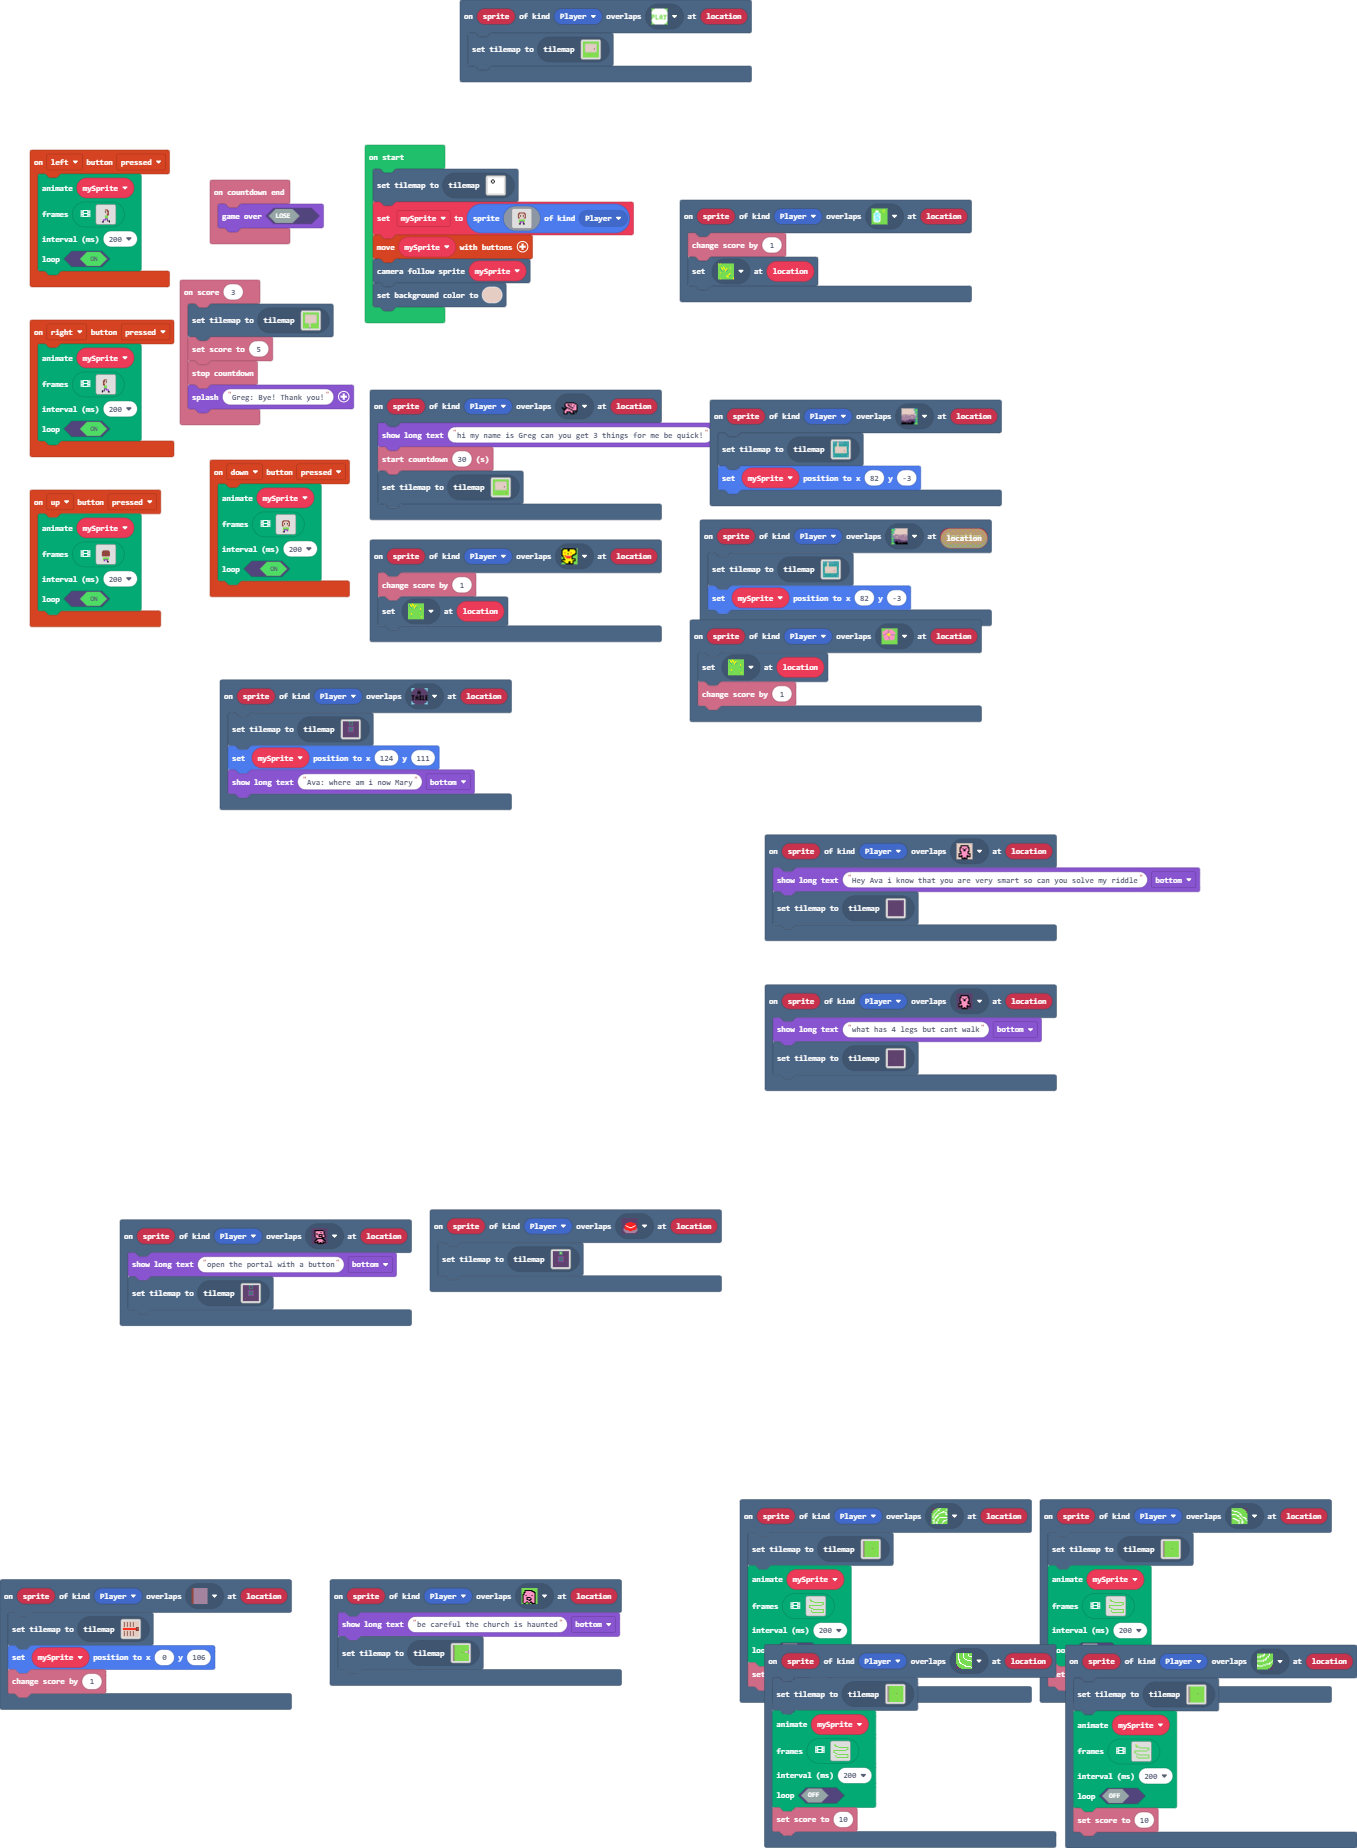
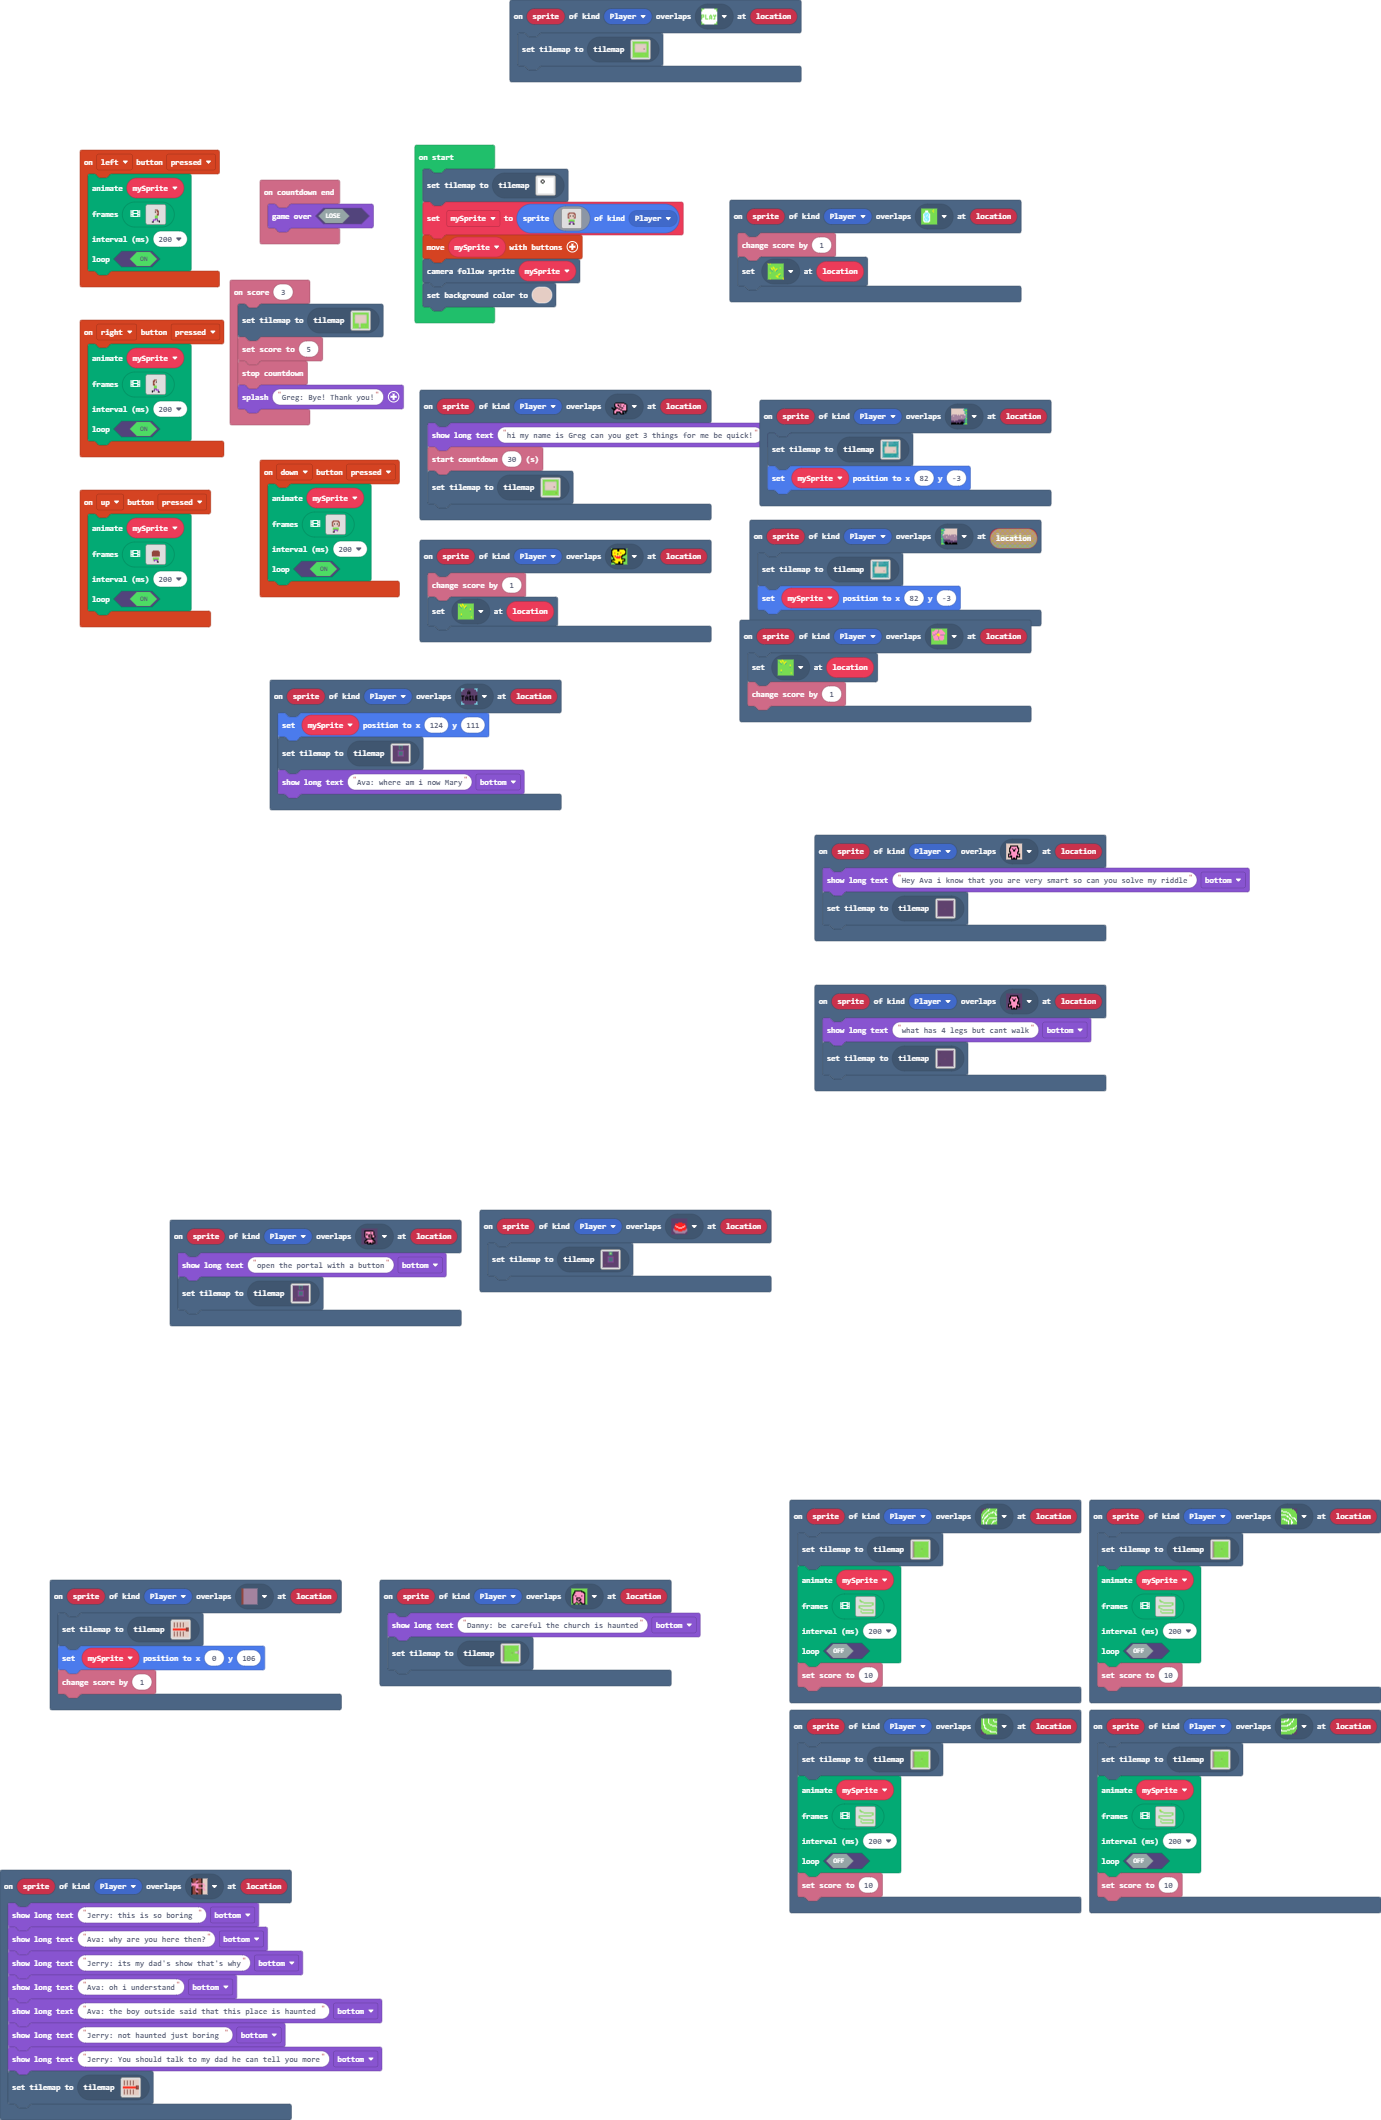
holy

diff --git a/tilemap.g.ts b/tilemap.g.ts
@@ -104,6 +104,8 @@ namespace myTiles {
     export const tile50 = image.ofBuffer(hex``);
     //% fixedInstance jres blockIdentity=images._tile
     export const tile51 = image.ofBuffer(hex``);
+    //% fixedInstance jres blockIdentity=images._tile
+    export const tile52 = image.ofBuffer(hex``);
 
     helpers._registerFactory("tilemap", function(name: string) {
         switch(helpers.stringTrim(name)) {
@@ -601,25 +603,6 @@ namespace myTiles {
 . . . . . . . . . . . . . . . . 
 . . . . . . . . . . . . . . . . 
 `, [myTiles.transparency16], TileScale.Sixteen);
-            case "level35":
[1 lines of base64/hex data omitted]
-. . . . . . . . . . . . . . . . 
-. . . . . . . . . . . . . . . . 
-. . . . . . . . . . . . . . . . 
-. . . . . . . . . . . . . . . . 
-. . . . . . . . . . . . . . . . 
-. . . . . . . . . . . . . . . . 
-. . . . . . . . . . . . . . . . 
-. . . . . . . . . . . . . . . . 
-. . . . . . . . . . . . . . . . 
-. . . . . . . . . . . . . . . . 
-. . . . . . . . . . . . . . . . 
-. . . . . . . . . . . . . . . . 
-. . . . . . . . . . . . . . . . 
-. . . . . . . . . . . . . . . . 
-. . . . . . . . . . . . . . . . 
-. . . . . . . . . . . . . . . . 
-`, [myTiles.transparency16,myTiles.tile37,myTiles.tile38,myTiles.tile39,myTiles.tile40,myTiles.tile41,myTiles.tile42,myTiles.tile43,myTiles.tile44,myTiles.tile45,myTiles.tile46,myTiles.tile47,myTiles.tile48,myTiles.tile49,myTiles.tile50], TileScale.Sixteen);
             case "level7":
             case "level7":return tiles.createTilemap(hex`1000100001010101010101010101010101010101010101010101010101010101010101010101010102020101010101010101010101010102010102010101010101010101010101020101020101010101010101010101010102020101010101010101010101010101010301010101010101010101010101010101010101010101010101010101010101010101010101010101010101010101010101010101010101010101010101010101010101010101010101010101010101010101010101010101010101010101010101010101010101010101010101010101010101010101010101010101010101010101010101010101010101010101010101010101010101010101`, img`
 . . . . . . . . . 2 . . . . . . 
@@ -715,6 +698,101 @@ namespace myTiles {
 . . . . . . . . . . . . . . . . 
 . . . . . . . . . . . . . . . . 
 `, [myTiles.transparency16], TileScale.Sixteen);
+            case "level38":
+            case "level38":return tiles.createTilemap(hex`1000100000000000000000000000000000000000000000000000000000000000000000000000000000000000000000000000000000000000000000000000000000000000000000000000000000000000000000000000000000000000000000000000000000000000000000000000000000000000000000000000000000000000000000000000000000000000000000000000000000000000000000000000000000000000000000000000000000000000000000000000000000000000000000000000000000000000000000000000000000000000000000000000000000000000000000000000000000000000000000000000000000000000000000000000000000000000`, img`
+. . . . . . . . . . . . . . . . 
+. . . . . . . . . . . . . . . . 
+. . . . . . . . . . . . . . . . 
+. . . . . . . . . . . . . . . . 
+. . . . . . . . . . . . . . . . 
+. . . . . . . . . . . . . . . . 
+. . . . . . . . . . . . . . . . 
+. . . . . . . . . . . . . . . . 
+. . . . . . . . . . . . . . . . 
+. . . . . . . . . . . . . . . . 
+. . . . . . . . . . . . . . . . 
+. . . . . . . . . . . . . . . . 
+. . . . . . . . . . . . . . . . 
+. . . . . . . . . . . . . . . . 
+. . . . . . . . . . . . . . . . 
+. . . . . . . . . . . . . . . . 
+`, [myTiles.transparency16], TileScale.Sixteen);
+            case "level39":
+            case "level39":return tiles.createTilemap(hex`1000100000000000000000000000000000000000000000000000000000000000000000000000000000000000000000000000000000000000000000000000000000000000000000000000000000000000000000000000000000000000000000000000000000000000000000000000000000000000000000000000000000000000000000000000000000000000000000000000000000000000000000000000000000000000000000000000000000000000000000000000000000000000000000000000000000000000000000000000000000000000000000000000000000000000000000000000000000000000000000000000000000000000000000000000000000000000`, img`
+. . . . . . . . . . . . . . . . 
+. . . . . . . . . . . . . . . . 
+. . . . . . . . . . . . . . . . 
+. . . . . . . . . . . . . . . . 
+. . . . . . . . . . . . . . . . 
+. . . . . . . . . . . . . . . . 
+. . . . . . . . . . . . . . . . 
+. . . . . . . . . . . . . . . . 
+. . . . . . . . . . . . . . . . 
+. . . . . . . . . . . . . . . . 
+. . . . . . . . . . . . . . . . 
+. . . . . . . . . . . . . . . . 
+. . . . . . . . . . . . . . . . 
+. . . . . . . . . . . . . . . . 
+. . . . . . . . . . . . . . . . 
+. . . . . . . . . . . . . . . . 
+`, [myTiles.transparency16], TileScale.Sixteen);
+            case "level35":
[1 lines of base64/hex data omitted]
+. . . . . . . . . . . . . . . . 
+. . . . . . . . . . . . . . . . 
+. . . . . . . . . . . . . . . . 
+. . . . . . . . . . . . . . . . 
+. . . . . . . . . . . . . . . . 
+. . . . . . . . . . . . . . . . 
+. . . . . . . . . . . . . . . . 
+. . . . . . . . . . . . . . . . 
+. . . . . . . . . . . . . . . . 
+. . . . . . . . . . . . . . . . 
+. . . . . . . . . . . . . . . . 
+. . . . . . . . . . . . . . . . 
+. . . . . . . . . . . . . . . . 
+. . . . . . . . . . . . . . . . 
+. . . . . . . . . . . . . . . . 
+. . . . . . . . . . . . . . . . 
+`, [myTiles.transparency16,myTiles.tile38,myTiles.tile39,myTiles.tile40,myTiles.tile41,myTiles.tile42,myTiles.tile43,myTiles.tile44,myTiles.tile45,myTiles.tile46,myTiles.tile47,myTiles.tile48,myTiles.tile49,myTiles.tile50], TileScale.Sixteen);
+            case "level40":
+            case "level40":return tiles.createTilemap(hex`1000100000000000000000000000000000000000000000000000000000000000000000000000000000000000000000000000000000000000000000000000000000000000000000000000000000000000000000000000000000000000000000000000000000000000000000000000000000000000000000000000000000000000000000000000000000000000000000000000000000000000000000000000000000000000000000000000000000000000000000000000000000000000000000000000000000000000000000000000000000000000000000000000000000000000000000000000000000000000000000000000000000000000000000000000000000000000`, img`
+. . . . . . . . . . . . . . . . 
+. . . . . . . . . . . . . . . . 
+. . . . . . . . . . . . . . . . 
+. . . . . . . . . . . . . . . . 
+. . . . . . . . . . . . . . . . 
+. . . . . . . . . . . . . . . . 
+. . . . . . . . . . . . . . . . 
+. . . . . . . . . . . . . . . . 
+. . . . . . . . . . . . . . . . 
+. . . . . . . . . . . . . . . . 
+. . . . . . . . . . . . . . . . 
+. . . . . . . . . . . . . . . . 
+. . . . . . . . . . . . . . . . 
+. . . . . . . . . . . . . . . . 
+. . . . . . . . . . . . . . . . 
+. . . . . . . . . . . . . . . . 
+`, [myTiles.transparency16], TileScale.Sixteen);
+            case "level42":
[1 lines of base64/hex data omitted]
+. . . . . . . . . . . . . . . . 
+. . . . . . . . . . . . . . . . 
+. . . . . . . . . . . . . . . . 
+. . . . . . . . . . . . . . . . 
+. . . . . . . . . . . . . . . . 
+. . . . . . . . . . . . . . . . 
+. . . . . . . . . . . . . . . . 
+. . . . . . . . . . . . . . . . 
+. . . . . . . . . . . . . . . . 
+. . . . . . . . . . . . . . . . 
+. . . . . . . . . . . . . . . . 
+. . . . . . . . . . . . . . . . 
+. . . . . . . . . . . . . . . . 
+. . . . . . . . . . . . . . . . 
+. . . . . . . . . . . . . . . . 
+. . . . . . . . . . . . . . . . 
+`, [myTiles.transparency16,myTiles.tile38,myTiles.tile39,myTiles.tile40,myTiles.tile41,myTiles.tile42,myTiles.tile43,myTiles.tile44,myTiles.tile45,myTiles.tile46,myTiles.tile48,myTiles.tile49,myTiles.tile50,myTiles.tile52,myTiles.tile37], TileScale.Sixteen);
         }
         return null;
     })
@@ -824,6 +902,8 @@ namespace myTiles {
             case "tile50":return tile50;
             case "myTile49":
             case "tile51":return tile51;
+            case "myTile50":
+            case "tile52":return tile52;
         }
         return null;
     })

diff --git a/main.ts b/main.ts
@@ -49,6 +49,16 @@ scene.onOverlapTile(SpriteKind.Player, assets.tile`myTile6`, function (sprite, l
     info.changeScoreBy(1)
     tiles.setTileAt(location, sprites.castle.tileGrass1)
 })
+scene.onOverlapTile(SpriteKind.Player, assets.tile`myTile45`, function (sprite, location) {
+    game.showLongText("Jerry: this is so boring ", DialogLayout.Bottom)
+    game.showLongText("Ava: why are you here then?", DialogLayout.Bottom)
+    game.showLongText("Jerry: its my dad's show that's why", DialogLayout.Bottom)
+    game.showLongText("Ava: oh i understand", DialogLayout.Bottom)
+    game.showLongText("Ava: the boy outside said that this place is haunted ", DialogLayout.Bottom)
+    game.showLongText("Jerry: not haunted just boring ", DialogLayout.Bottom)
+    game.showLongText("Jerry: You should talk to my dad he can tell you more", DialogLayout.Bottom)
+    tiles.setCurrentTilemap(tilemap`level42`)
+})
 scene.onOverlapTile(SpriteKind.Player, assets.tile`myTile34`, function (sprite, location) {
     tiles.setCurrentTilemap(tilemap`level35`)
     mySprite.setPosition(0, 106)
@@ -153,8 +163,8 @@ scene.onOverlapTile(SpriteKind.Player, assets.tile`myTile24`, function (sprite, 
     info.setScore(10)
 })
 scene.onOverlapTile(SpriteKind.Player, assets.tile`myTile13`, function (sprite, location) {
-    tiles.setCurrentTilemap(tilemap`level20`)
     mySprite.setPosition(124, 111)
+    tiles.setCurrentTilemap(tilemap`level20`)
     game.showLongText("Ava: where am i now Mary", DialogLayout.Bottom)
 })
 scene.onOverlapTile(SpriteKind.Player, assets.tile`myTile7`, function (sprite, location) {
@@ -487,7 +497,7 @@ scene.onOverlapTile(SpriteKind.Player, assets.tile`myTile11`, function (sprite, 
     tiles.setCurrentTilemap(tilemap`level19`)
 })
 scene.onOverlapTile(SpriteKind.Player, assets.tile`myTile30`, function (sprite, location) {
-    game.showLongText("be careful the church is haunted", DialogLayout.Bottom)
+    game.showLongText("Danny: be careful the church is haunted", DialogLayout.Bottom)
     tiles.setCurrentTilemap(tilemap`level34`)
 })
 scene.onOverlapTile(SpriteKind.Player, assets.tile`myTile26`, function (sprite, location) {
